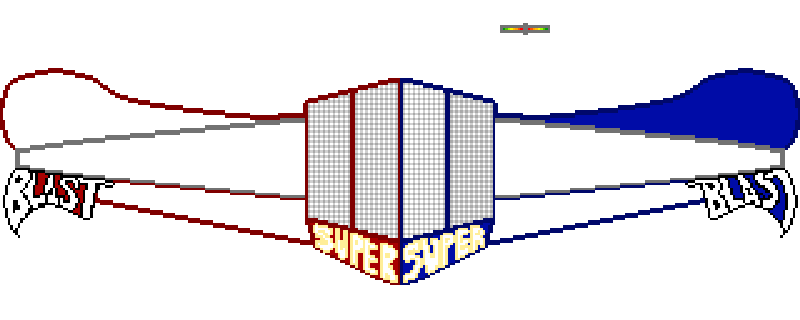
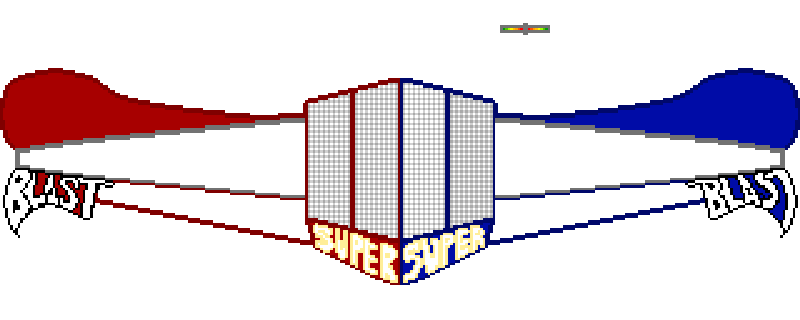
portrait images done

Changed region(s): [[0.0, 0.2188, 0.3125, 0.4688]]

diff --git a/main.py b/main.py
@@ -64,7 +64,7 @@ class Game:
 		self.screen.blit(self.image,(0,0))
 
 	def draw_HUD(self, surf):
-		HUD = get_image("./assets/ui/HUD/In-Battle-HUD2.png")
+		HUD = get_image("./assets/ui/HUD/HUD.png")
 		scaled_HUD = pg.transform.scale(HUD, (screen_width,  screen_height/3))
 		# surf.blit(HUD, (400,0))
 		surf.blit(scaled_HUD, (0,-55))
@@ -86,6 +86,8 @@ class Game:
 
 	def draw_portrait(self, x, y, size, target, surf):
 		portrait = get_image(f"./assets/characters/{target.character}/portrait/portrait.png")
+		if target ==  self.player_2:
+			portrait = pg.transform.flip(portrait, True, False)
 		scaled_portrait = pg.transform.scale(portrait, (size+20, size-10))
 		surf.blit(scaled_portrait, (x,y))
 		pass
@@ -340,8 +342,8 @@ class Game:
 			#show player stats
 			self.drawHealthBar(self.player_1.hp, 40, 48)
 			self.draw_HUD(self.screen)
-			self.draw_portrait(50, 0, 80, self.player_1, self.screen)
-			self.draw_portrait(1500, 0, 80, self.player_2, self.screen)
+			self.draw_portrait(50, 2, 80, self.player_1, self.screen)
+			self.draw_portrait(1460, 2, 80, self.player_2, self.screen)
 
 			# show fps
 			fpsCounter = str(int(self.clock.get_fps()))

diff --git a/fighter.py b/fighter.py
@@ -16,6 +16,7 @@ attacks = ['LP', 'MP', 'HP', 'LK', 'MK', 'HK', '2LP', '2MP', '2HP']
 class Fighter():
     def __init__(self, game, x, y, flip, surface, char, data, sprite_sheet, animation_steps, mode):
         self.game = game
+        self.player_num = 1
         self.character = char
         self.size = data[0]
         self.import_character_assets()
